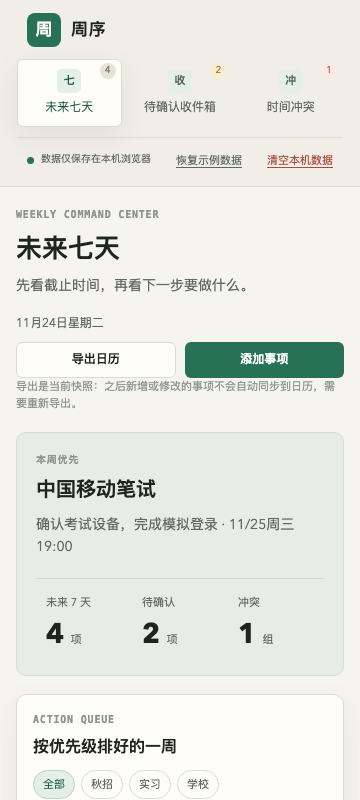
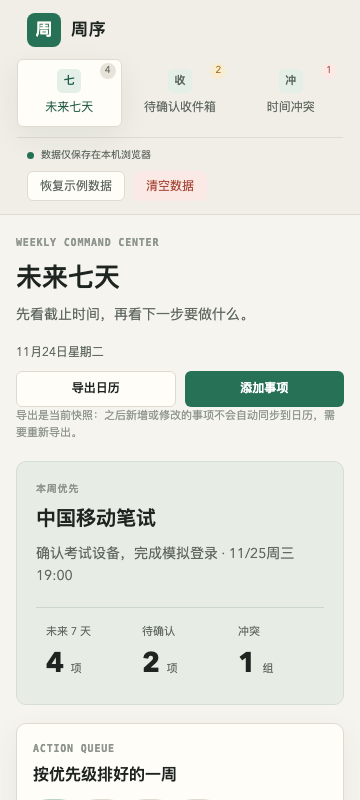
提升手机端数据管理入口的可发现性：改为按钮样式并横排
- 清空本机数据在窄屏改为短文案「清空数据」，加边框与底色
- 两个按钮横排，390px 一行放下，360px 自动换行不溢出
- 验证：390 下按钮 74x30 / 98x30，6 视口无溢出无报错

diff --git a/docs/index.html b/docs/index.html
@@ -6,7 +6,7 @@
     <meta name="theme-color" content="#f5f3ee" />
     <title>周序 · 未来七天行动计划</title>
     <link rel="icon" href="data:," />
-    <link rel="stylesheet" href="./styles.css?v=20261124-3" />
+    <link rel="stylesheet" href="./styles.css?v=20261124-5" />
   </head>
   <body>
     <div class="app-shell">
@@ -42,8 +42,13 @@
             <span class="privacy-dot"></span>
             <span>数据仅保存在本机浏览器</span>
           </div>
-          <button class="text-button" id="resetDemo" type="button">恢复示例数据</button>
-          <button class="reset-link" id="clearLocalData" type="button">清空本机数据</button>
+          <div class="sidebar-actions">
+            <button class="text-button" id="resetDemo" type="button">恢复示例数据</button>
+            <button class="reset-link" id="clearLocalData" type="button">
+              <span class="label-full">清空本机数据</span>
+              <span class="label-short">清空数据</span>
+            </button>
+          </div>
         </div>
       </aside>
 
@@ -392,7 +397,7 @@
 
     <div class="toast" id="toast" role="status" aria-live="polite"></div>
 
-    <script src="./parser.js?v=20261124-3"></script>
-    <script src="./app.js?v=20261124-3"></script>
+    <script src="./parser.js?v=20261124-5"></script>
+    <script src="./app.js?v=20261124-5"></script>
   </body>
 </html>

diff --git a/mvp/index.html b/mvp/index.html
@@ -6,7 +6,7 @@
     <meta name="theme-color" content="#f5f3ee" />
     <title>周序 · 未来七天行动计划</title>
     <link rel="icon" href="data:," />
-    <link rel="stylesheet" href="./styles.css?v=20261124-3" />
+    <link rel="stylesheet" href="./styles.css?v=20261124-5" />
   </head>
   <body>
     <div class="app-shell">
@@ -42,8 +42,13 @@
             <span class="privacy-dot"></span>
             <span>数据仅保存在本机浏览器</span>
           </div>
-          <button class="text-button" id="resetDemo" type="button">恢复示例数据</button>
-          <button class="reset-link" id="clearLocalData" type="button">清空本机数据</button>
+          <div class="sidebar-actions">
+            <button class="text-button" id="resetDemo" type="button">恢复示例数据</button>
+            <button class="reset-link" id="clearLocalData" type="button">
+              <span class="label-full">清空本机数据</span>
+              <span class="label-short">清空数据</span>
+            </button>
+          </div>
         </div>
       </aside>
 
@@ -392,7 +397,7 @@
 
     <div class="toast" id="toast" role="status" aria-live="polite"></div>
 
-    <script src="./parser.js?v=20261124-3"></script>
-    <script src="./app.js?v=20261124-3"></script>
+    <script src="./parser.js?v=20261124-5"></script>
+    <script src="./app.js?v=20261124-5"></script>
   </body>
 </html>

diff --git a/docs/styles.css b/docs/styles.css
@@ -173,6 +173,17 @@ a {
   border-top: 1px solid var(--line);
 }
 
+.sidebar-actions {
+  display: flex;
+  flex-direction: column;
+  align-items: flex-start;
+  gap: 6px;
+}
+
+.label-short {
+  display: none;
+}
+
 .privacy-note {
   display: flex;
   align-items: center;
@@ -1497,7 +1508,7 @@ a {
     flex-wrap: wrap;
     align-items: center;
     justify-content: space-between;
-    gap: 6px 12px;
+    gap: 8px 10px;
     margin-top: 10px;
     padding-top: 10px;
   }
@@ -1506,11 +1517,37 @@ a {
     font-size: 10px;
   }
 
+  .sidebar-actions {
+    display: flex;
+    flex-direction: row;
+    align-items: center;
+    gap: 8px;
+  }
+
+  .label-full {
+    display: none;
+  }
+
+  .label-short {
+    display: inline;
+  }
+
   .sidebar-footer .text-button,
   .sidebar-footer .reset-link {
     margin-top: 0;
-    padding: 4px 0;
-    font-size: 11px;
+    padding: 7px 12px;
+    font-size: 12px;
+    line-height: 1.2;
+    text-decoration: none;
+    border: 1px solid var(--line);
+    border-radius: var(--radius-sm);
+    background: var(--panel);
+  }
+
+  .sidebar-footer .reset-link {
+    color: var(--danger);
+    border-color: var(--danger-soft);
+    background: var(--danger-soft);
   }
 
   .nav-list {

diff --git a/mvp/styles.css b/mvp/styles.css
@@ -173,6 +173,17 @@ a {
   border-top: 1px solid var(--line);
 }
 
+.sidebar-actions {
+  display: flex;
+  flex-direction: column;
+  align-items: flex-start;
+  gap: 6px;
+}
+
+.label-short {
+  display: none;
+}
+
 .privacy-note {
   display: flex;
   align-items: center;
@@ -1497,7 +1508,7 @@ a {
     flex-wrap: wrap;
     align-items: center;
     justify-content: space-between;
-    gap: 6px 12px;
+    gap: 8px 10px;
     margin-top: 10px;
     padding-top: 10px;
   }
@@ -1506,11 +1517,37 @@ a {
     font-size: 10px;
   }
 
+  .sidebar-actions {
+    display: flex;
+    flex-direction: row;
+    align-items: center;
+    gap: 8px;
+  }
+
+  .label-full {
+    display: none;
+  }
+
+  .label-short {
+    display: inline;
+  }
+
   .sidebar-footer .text-button,
   .sidebar-footer .reset-link {
     margin-top: 0;
-    padding: 4px 0;
-    font-size: 11px;
+    padding: 7px 12px;
+    font-size: 12px;
+    line-height: 1.2;
+    text-decoration: none;
+    border: 1px solid var(--line);
+    border-radius: var(--radius-sm);
+    background: var(--panel);
+  }
+
+  .sidebar-footer .reset-link {
+    color: var(--danger);
+    border-color: var(--danger-soft);
+    background: var(--danger-soft);
   }
 
   .nav-list {
